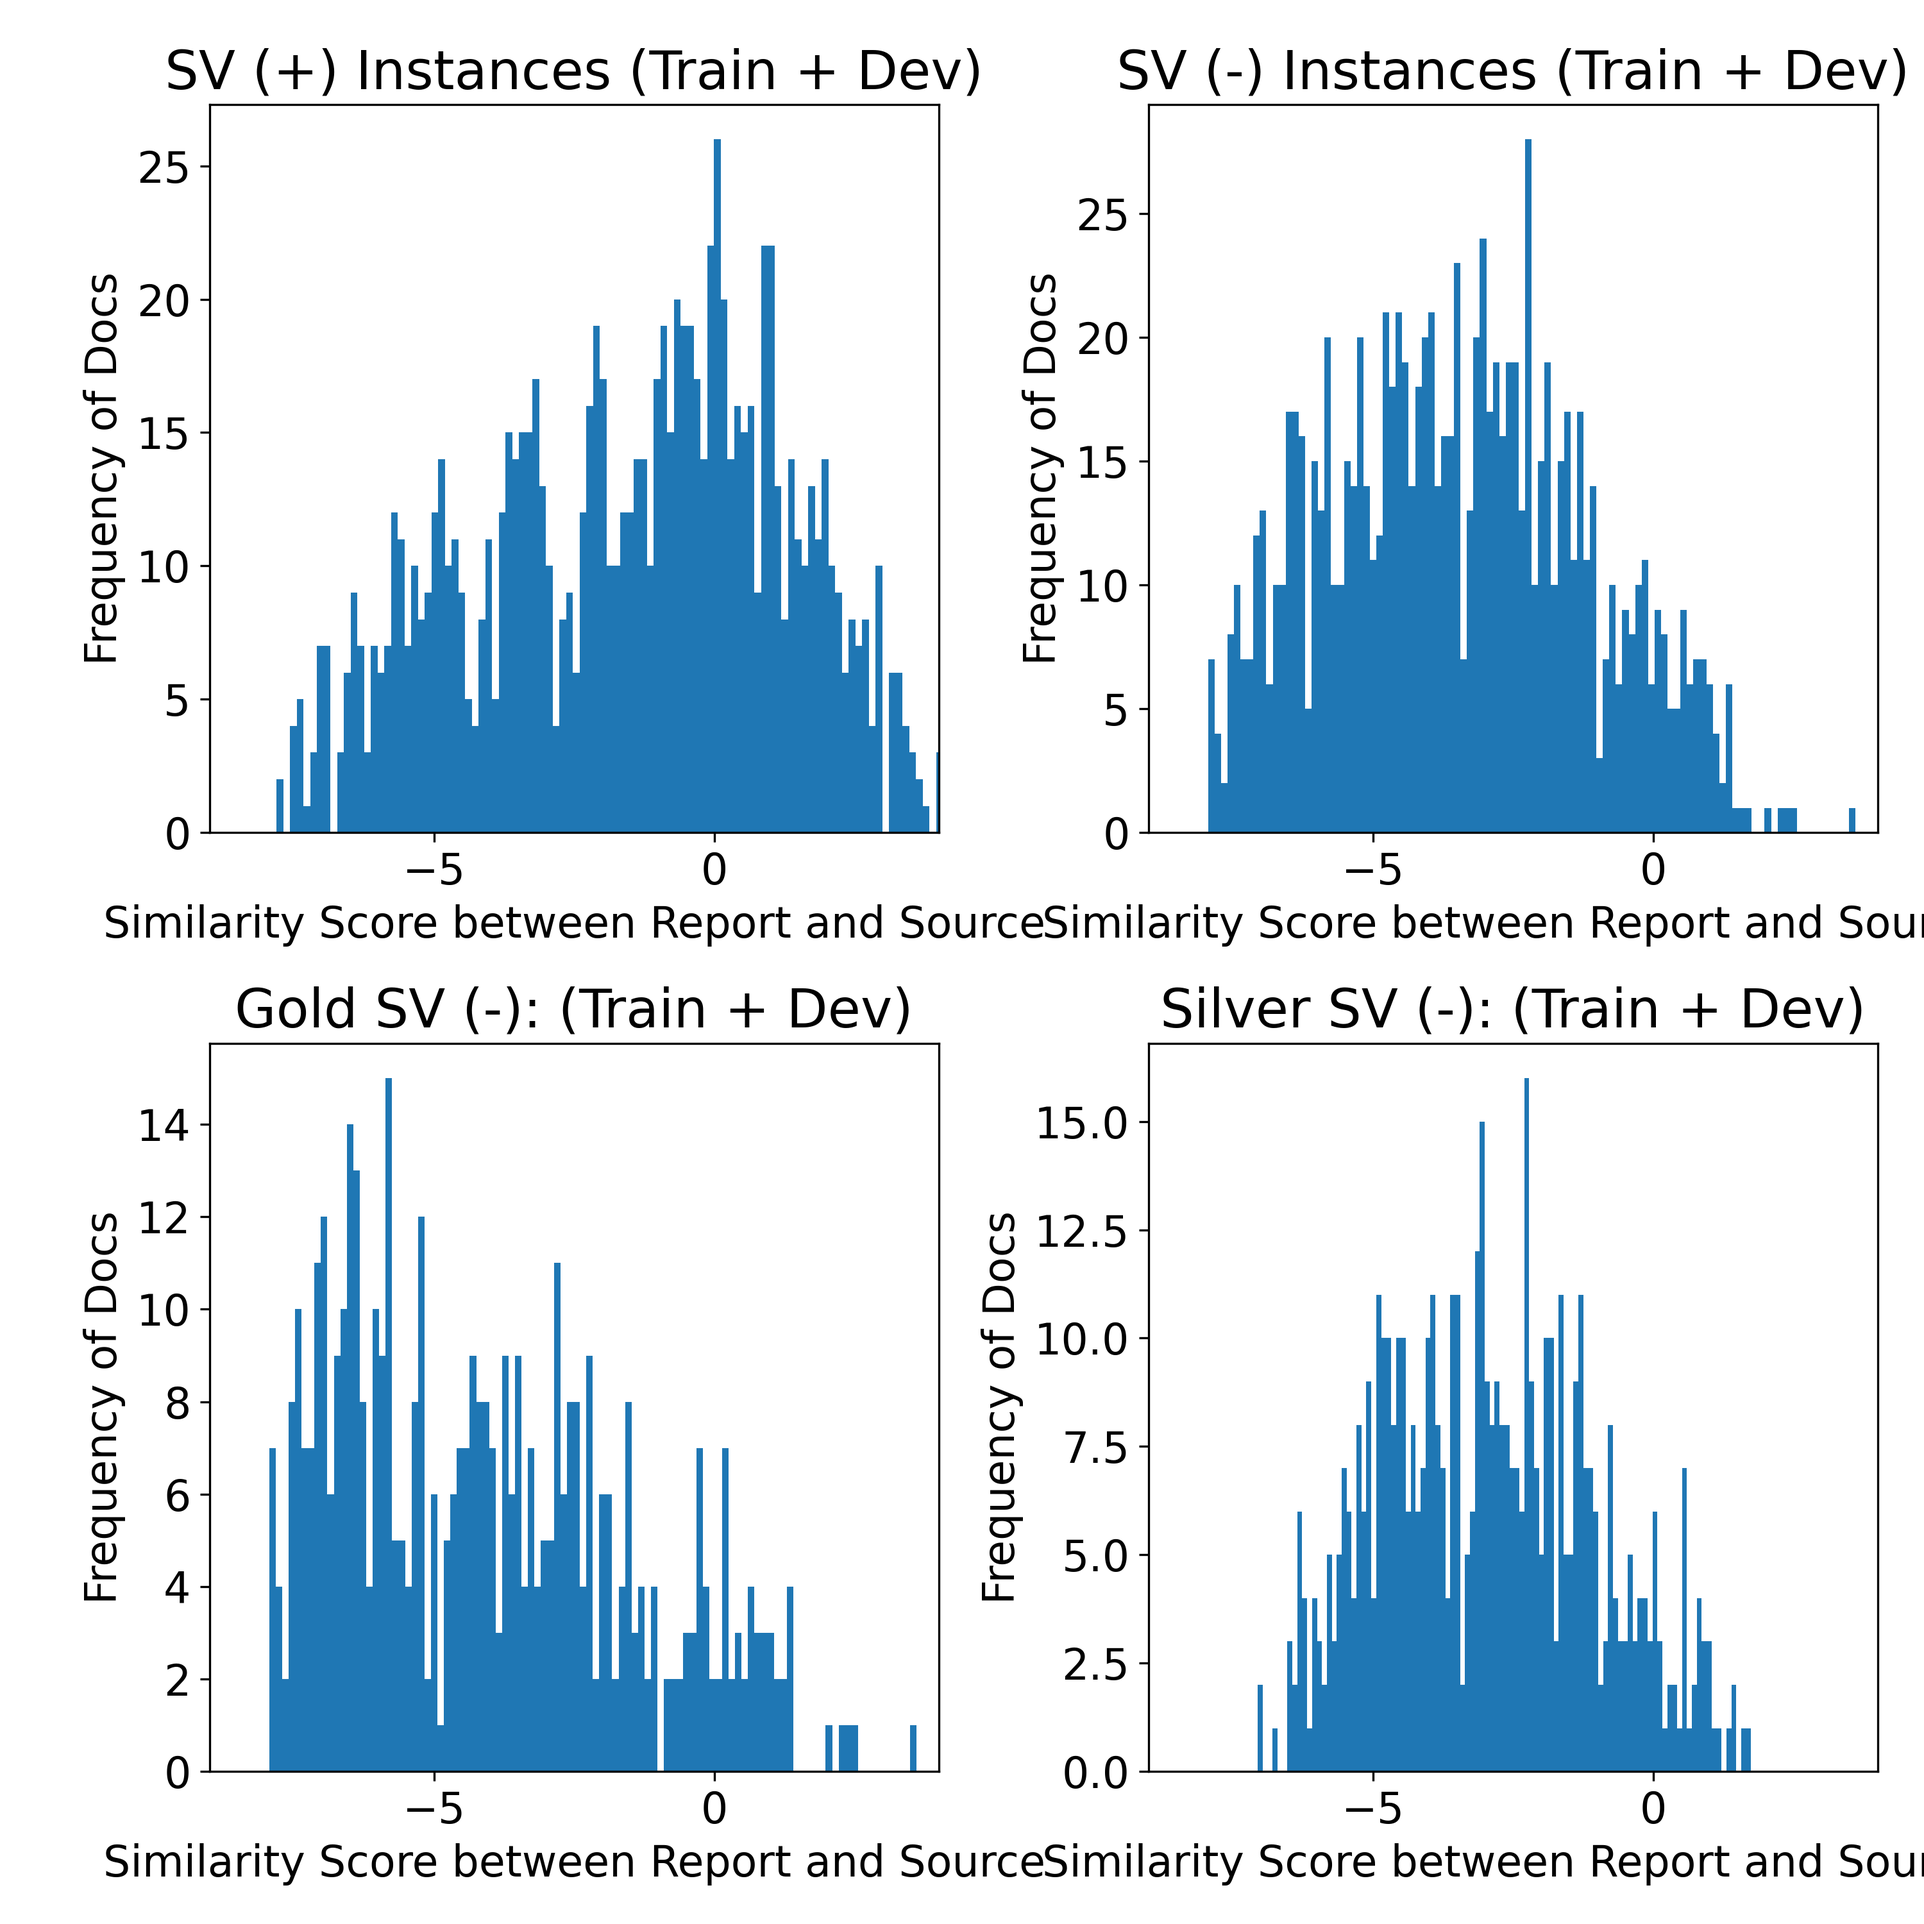
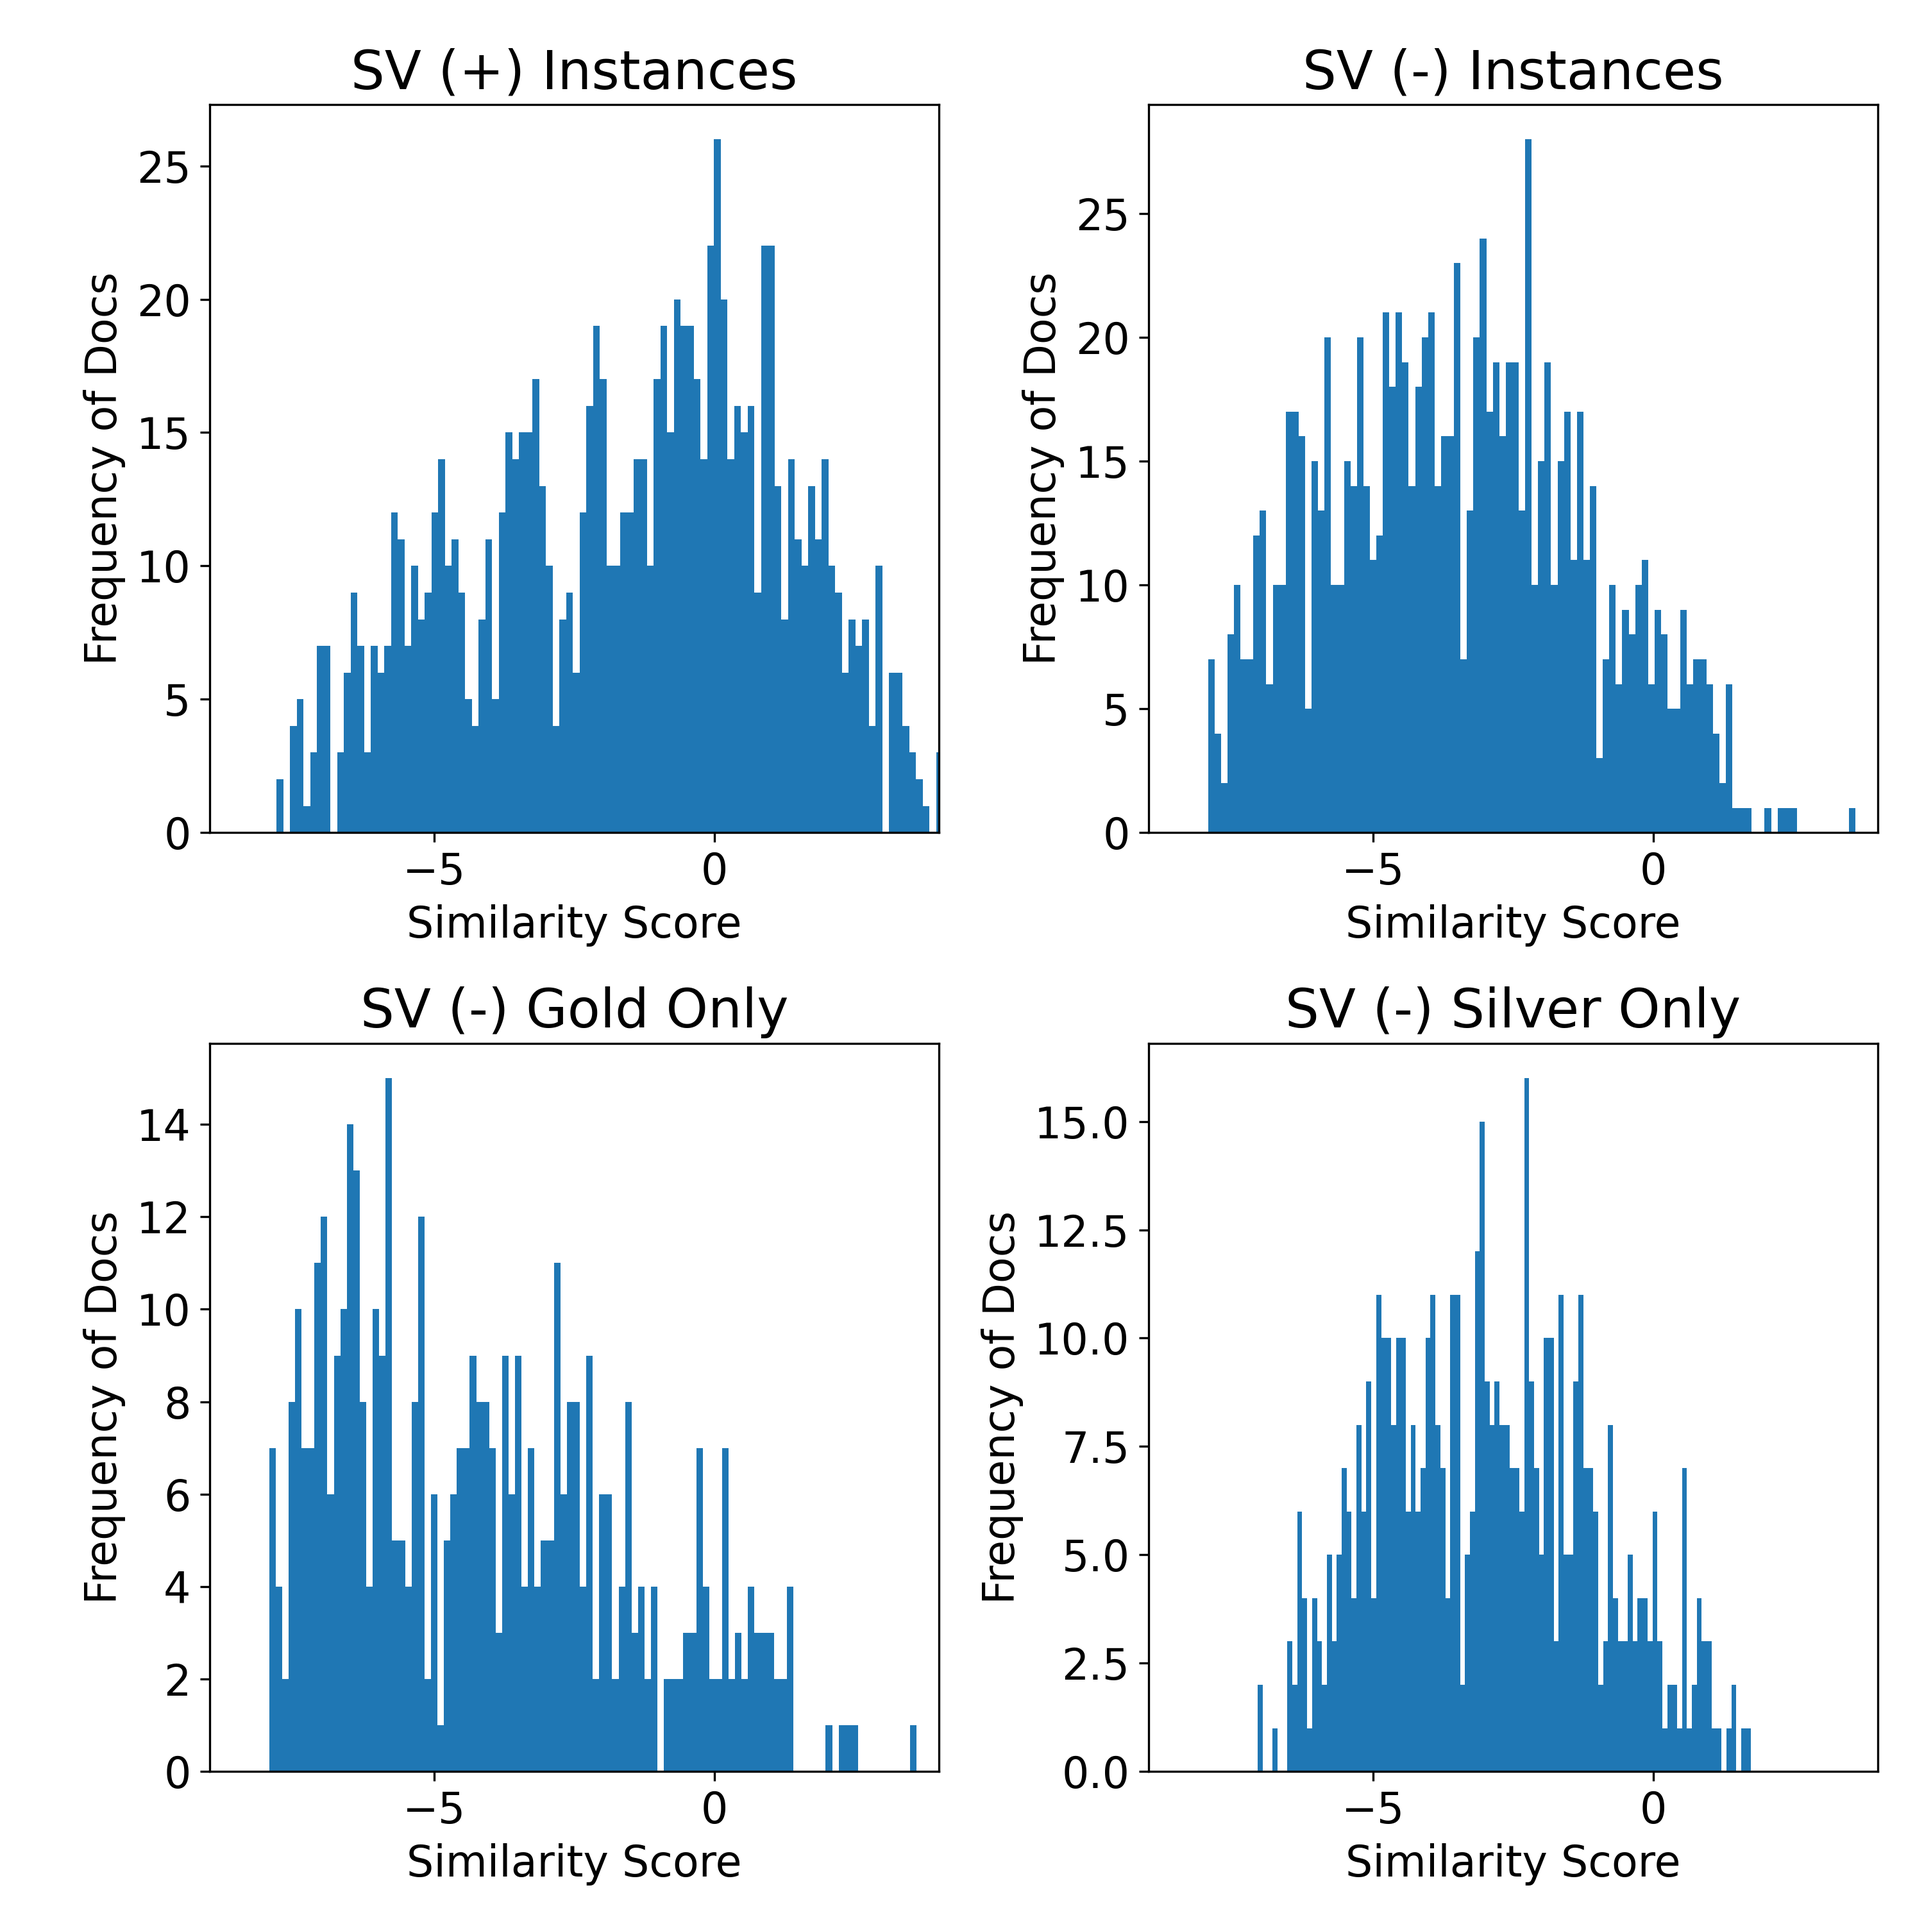
edited simLM fig

diff --git a/src/data_processing/simLM_distributions.py b/src/data_processing/simLM_distributions.py
@@ -142,42 +142,42 @@ def main():
 
     # Plot for positive similarity scores
     axs[0, 0].hist(pos_sim_scores, bins=100)
-    axs[0, 0].set_xlabel('Similarity Score between Report and Source',  
+    axs[0, 0].set_xlabel('Similarity Score',  
                             fontsize=16)
     axs[0, 0].set_ylabel('Frequency of Docs',  
                             fontsize=16)
     axs[0, 0].set_xlim(-9, 4)
-    axs[0, 0].set_title('SV (+) Instances (Train + Dev)',  
+    axs[0, 0].set_title('SV (+) Instances',  
                             fontsize=20)
 
     # Plot for negative similarity scores
     axs[0, 1].hist(neg_sim_scores, bins=100)
-    axs[0, 1].set_xlabel('Similarity Score between Report and Source',  
+    axs[0, 1].set_xlabel('Similarity Score',  
                             fontsize=16)
     axs[0, 1].set_ylabel('Frequency of Docs',  
                             fontsize=16)
     axs[0, 1].set_xlim(-9, 4)
-    axs[0, 1].set_title('SV (-) Instances (Train + Dev)',  
+    axs[0, 1].set_title('SV (-) Instances',  
                             fontsize=20)
 
     # Plot for gold negative similarity scores
     axs[1, 0].hist(neg_gold_sim_scores, bins=100)
-    axs[1, 0].set_xlabel('Similarity Score between Report and Source',  
+    axs[1, 0].set_xlabel('Similarity Score',  
                             fontsize=16)
     axs[1, 0].set_ylabel('Frequency of Docs',  
                             fontsize=16)
     axs[1, 0].set_xlim(-9, 4)
-    axs[1, 0].set_title('Gold SV (-): (Train + Dev)',  
+    axs[1, 0].set_title('SV (-) Gold Only',  
                             fontsize=20)
 
     # Plot for generated negative similarity scores
     axs[1, 1].hist(neg_gen_sim_scores, bins=100)
-    axs[1, 1].set_xlabel('Similarity Score between Report and Source',  
+    axs[1, 1].set_xlabel('Similarity Score',  
                             fontsize=16)
     axs[1, 1].set_ylabel('Frequency of Docs',  
                             fontsize=16)
     axs[1, 1].set_xlim(-9, 4)
-    axs[1, 1].set_title('Silver SV (-): (Train + Dev)',  
+    axs[1, 1].set_title('SV (-) Silver Only',  
                             fontsize=20)
 
     # Improve layout
